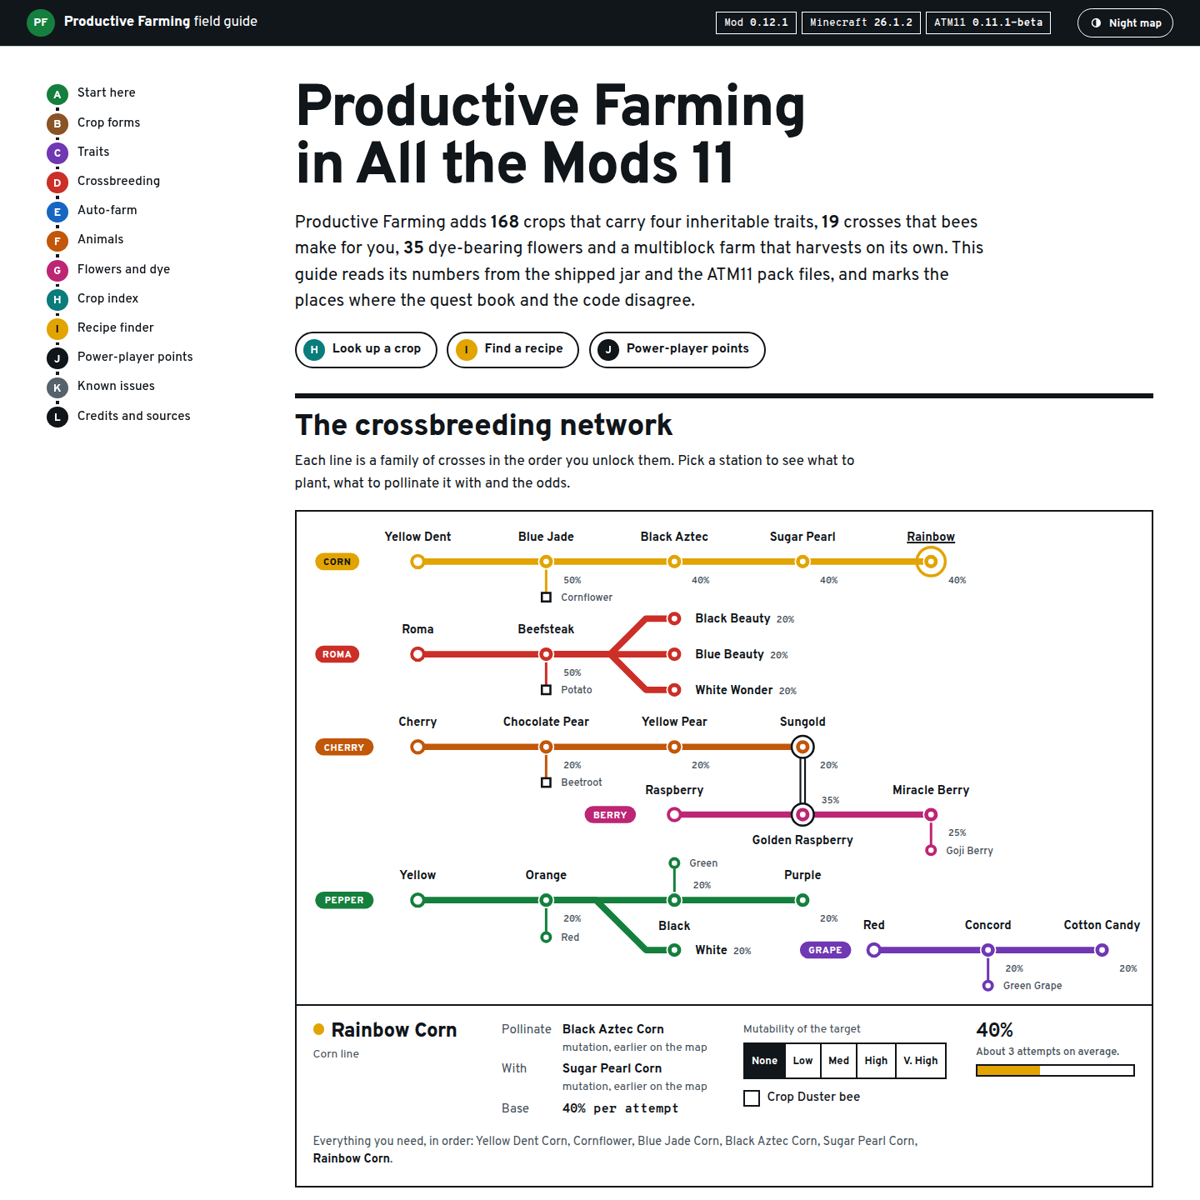
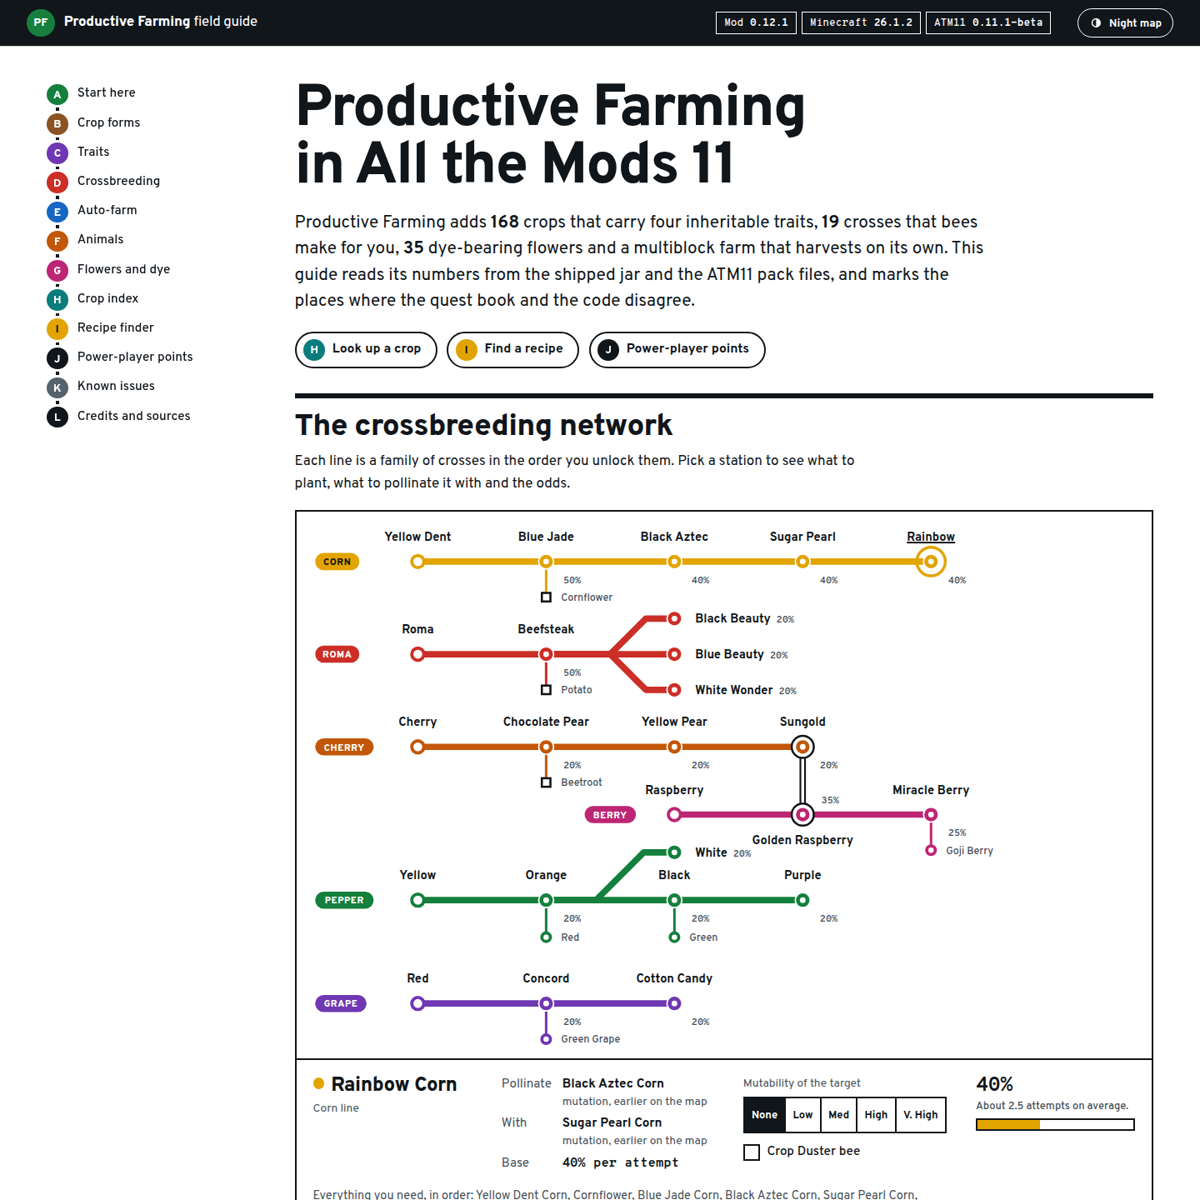
Map: give the grape line its own band, untangle the pepper labels, larger map on phones

Changed region(s): [[0.2467, 0.7092, 0.9558, 1.0]]

diff --git a/assets/app.js b/assets/app.js
@@ -221,9 +221,9 @@
       ["black_beauty_tomato", "roma", 530, 150, "Black Beauty", "right"],
       ["blue_beauty_tomato", "roma", 530, 200, "Blue Beauty", "right"],
       ["white_wonder_tomato", "roma", 530, 250, "White Wonder", "right"],
-      ["red_grape", "grape", 810, 615, "Red", "above"],
-      ["concord_grape", "grape", 970, 615, "Concord", "above"],
-      ["cotton_candy_grape", "grape", 1130, 615, "Cotton Candy", "above"],
+      ["red_grape", "grape", 170, 690, "Red", "above"],
+      ["concord_grape", "grape", 350, 690, "Concord", "above"],
+      ["cotton_candy_grape", "grape", 530, 690, "Cotton Candy", "above"],
       ["cherry_tomato", "cherry", 170, 330, "Cherry", "above"],
       ["chocolate_pear_tomato", "cherry", 350, 330, "Chocolate Pear", "above"],
       ["yellow_pear_tomato", "cherry", 530, 330, "Yellow Pear", "above"],
@@ -233,19 +233,19 @@
       ["miracle_berry", "berry", 890, 425, "Miracle Berry", "above"],
       ["yellow_bell_pepper", "pepper", 170, 545, "Yellow", "above"],
       ["orange_bell_pepper", "pepper", 350, 545, "Orange", "above"],
-      ["black_bell_pepper", "pepper", 530, 545, "Black", "below"],
+      ["black_bell_pepper", "pepper", 530, 545, "Black", "above"],
       ["purple_bell_pepper", "pepper", 710, 545, "Purple", "above"],
-      ["white_bell_pepper", "pepper", 530, 615, "White", "right"]
+      ["white_bell_pepper", "pepper", 530, 478, "White", "right"]
     ];
     // feeders: [id, line, x, y, label, into]
     var FEEDS = [
       ["cornflower", "corn", 350, 120, "Cornflower", "blue_jade_corn"],
       ["potato", "roma", 350, 250, "Potato", "beefsteak_tomato"],
       ["beetroot", "cherry", 350, 380, "Beetroot", "chocolate_pear_tomato"],
-      ["green_grape", "grape", 970, 665, "Green Grape", "concord_grape"],
+      ["green_grape", "grape", 350, 740, "Green Grape", "concord_grape"],
       ["goji_berry", "berry", 890, 475, "Goji Berry", "miracle_berry"],
       ["red_bell_pepper", "pepper", 350, 597, "Red", "orange_bell_pepper"],
-      ["green_bell_pepper", "pepper", 530, 493, "Green", "black_bell_pepper"]
+      ["green_bell_pepper", "pepper", 530, 597, "Green", "black_bell_pepper"]
     ];
     // [line, path, from station, to station]
     var ROUTES = [
@@ -259,11 +259,11 @@
       ["berry", "M530 425H710", "raspberry", "golden_raspberry"], ["berry", "M710 425H890", "golden_raspberry", "miracle_berry"],
       ["pepper", "M170 545H350", "yellow_bell_pepper", "orange_bell_pepper"], ["pepper", "M350 545H530", "orange_bell_pepper", "black_bell_pepper"],
       ["pepper", "M530 545H710", "black_bell_pepper", "purple_bell_pepper"],
-      ["pepper", "M350 545H420L490 615H530", "orange_bell_pepper", "white_bell_pepper"],
-      ["grape", "M810 615H970", "red_grape", "concord_grape"], ["grape", "M970 615H1130", "concord_grape", "cotton_candy_grape"]
+      ["pepper", "M350 545H420L487 478H530", "orange_bell_pepper", "white_bell_pepper"],
+      ["grape", "M170 690H350", "red_grape", "concord_grape"], ["grape", "M350 690H530", "concord_grape", "cotton_candy_grape"]
     ];
     var LINE_ORDER = ["corn", "roma", "cherry", "berry", "pepper", "grape"];
-    var TAGS = [["corn", 26, 70, "CORN"], ["roma", 26, 200, "ROMA"], ["grape", 706, 615, "GRAPE"], ["cherry", 26, 330, "CHERRY"],
+    var TAGS = [["corn", 26, 70, "CORN"], ["roma", 26, 200, "ROMA"], ["grape", 26, 690, "GRAPE"], ["cherry", 26, 330, "CHERRY"],
       ["berry", 404, 425, "BERRY"], ["pepper", 26, 545, "PEPPER"]];
 
     var stopById = {};
@@ -393,7 +393,7 @@
         });
         html += '</div></div><label class="check"><input type="checkbox" id="duster"' + (state.duster ? " checked" : "") + "> Crop Duster bee</label></div>";
         html += '<div class="meter" style="--c:' + line.c + '"><div class="meter__val">' + pct(chance) +
-          "<small>" + (chance >= 1 ? "Certain on the next attempt" : "About " + Math.ceil(1 / chance) + " attempts on average") +
+          "<small>" + (chance >= 1 ? "Certain on the next attempt" : "About " + (1 / chance).toFixed(1).replace(/\.0$/, "") + " attempts on average") +
           (siblings > 1 ? ". Each attempt first picks one of " + siblings + " outcomes" : "") + ".</small></div>" +
           '<div class="meter__track" role="img" aria-label="Chance per attempt ' + pct(chance) + '"><div class="meter__fill" style="--w:' + (chance * 100) + '%"></div></div></div>';
         var route = chain(id).map(function (x) { return x === id ? "<b>" + esc(cropName(x)) + "</b>" : esc(cropName(x)); });

diff --git a/index.html b/index.html
@@ -68,6 +68,7 @@
     <section class="hero">
       <h1>Productive Farming in All the Mods 11</h1>
       <p class="lede">Productive Farming adds <b data-count="crops">168</b> crops that carry four inheritable traits, <b data-count="mutations">19</b> crosses that bees make for you, <b data-count="flowers">35</b> dye-bearing flowers and a multiblock farm that harvests on its own. This guide reads its numbers from the shipped jar and the ATM11 pack files, and marks the places where the quest book and the code disagree.</p>
+      <p class="hero__versions">Mod <b data-meta="modShort">0.12.1</b>, Minecraft <b data-meta="minecraft">26.1.2</b>, ATM11 <b data-meta="packVersion">0.11.1-beta</b></p>
       <p class="hero__ways">
         <a class="way" href="#crops"><span class="bullet" style="--line:var(--l-teal)" aria-hidden="true">H</span>Look up a crop</a>
         <a class="way" href="#recipes"><span class="bullet bullet--dark" style="--line:var(--l-amber)" aria-hidden="true">I</span>Find a recipe</a>
@@ -83,7 +84,7 @@
       <div class="network__body">
         <p class="network__cue"><svg viewBox="0 0 24 24" aria-hidden="true"><path d="M4 12h15M13 6l6 6-6 6"/></svg>The map is wider than this screen. Swipe it sideways.</p>
         <div class="network__scroll" tabindex="0" role="group" aria-label="Crossbreeding network map. Scrolls sideways on small screens.">
-          <svg id="network-map" viewBox="0 0 1200 692" role="img" aria-label="Transit-style map of the 19 crop mutations"></svg>
+          <svg id="network-map" viewBox="0 0 1200 768" role="img" aria-label="Transit-style map of the 19 crop mutations"></svg>
         </div>
         <aside class="board" id="board" aria-live="polite" aria-label="Selected station"></aside>
       </div>

diff --git a/assets/styles.css b/assets/styles.css
@@ -260,6 +260,8 @@ h1 {
   max-width: 16ch;
 }
 .lede { margin-top: 1.1rem; font-size: clamp(1.1rem, 1rem + 0.5vw, 1.3rem); line-height: 1.5; max-width: 62ch; }
+.hero__versions { display: none; margin-top: 0.9rem; font: 500 0.8rem/1.5 var(--mono); color: var(--ink-2); }
+.hero__versions b { color: var(--ink); font-weight: 700; }
 .hero__ways { display: flex; flex-wrap: wrap; gap: 0.6rem 0.7rem; margin-top: 1.25rem; }
 .way {
   display: inline-flex; align-items: center; gap: 0.55rem;
@@ -615,6 +617,9 @@ select {
 }
 @media (max-width: 62rem) {
   .plate { display: none; }
+  .hero__versions { display: block; }
+  #network-map { min-width: 68rem; }
+  .network__cue { display: flex; }
   .bar__tools { margin-left: auto; }
   #contents-toggle { display: inline-flex; }
   .shell { grid-template-columns: minmax(0, 1fr); }
